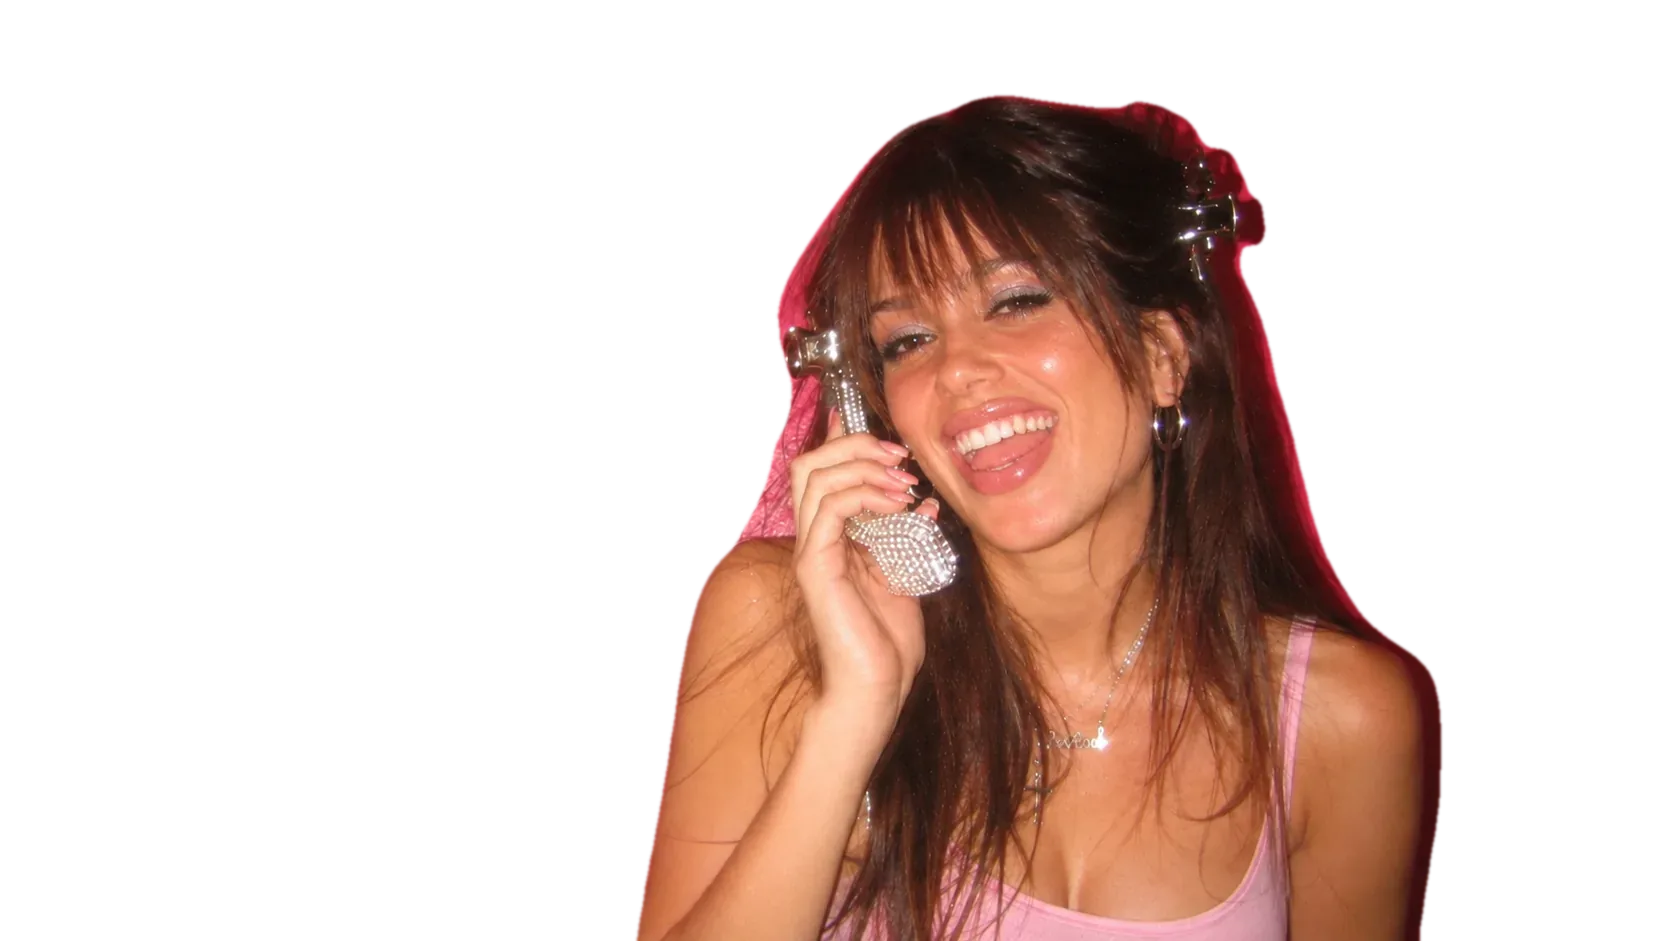
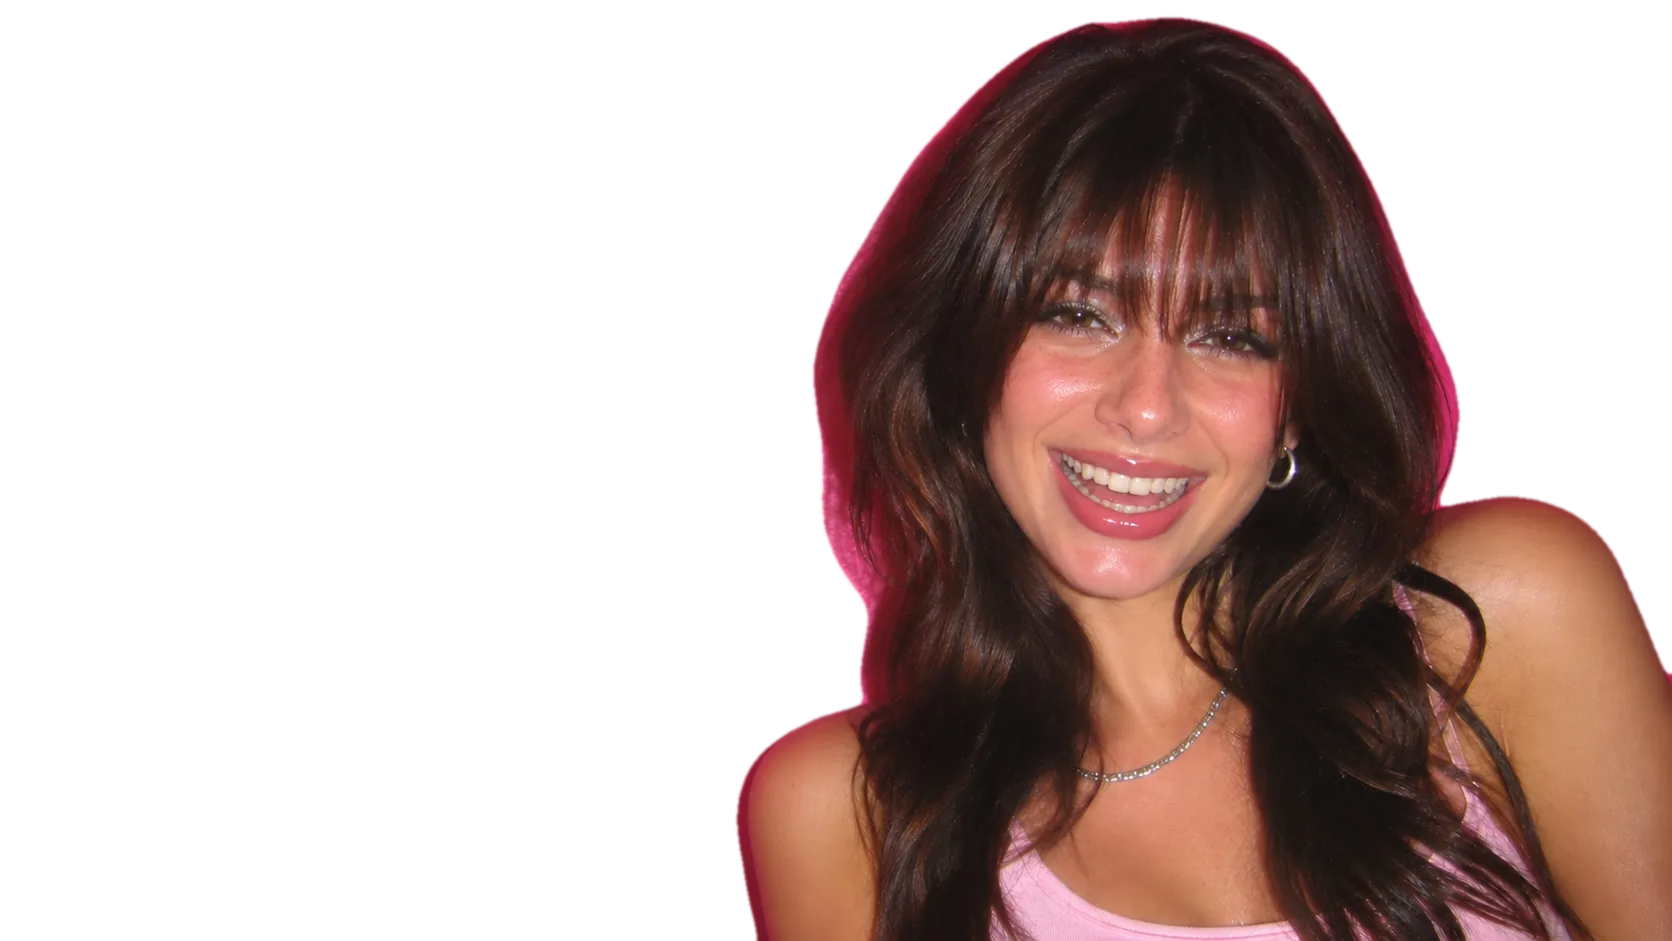
hero: cut it yourself goes wrong, oh no, we fix it
Claude-Session: https://claude.ai/code/session_01WbtRzhgL5VXSv96dk2bG6E

diff --git a/components/Cover.tsx b/components/Cover.tsx
@@ -11,16 +11,16 @@ type Strand = { x: number; y: number; r: number; d: number; dx: number; len: num
  * cut = where the "after" fringe ends (the brows). ends = the long ends that get cut off.
  */
 const FRINGE = {
-  d: { w: 1672, h: 941, pos: [60, 30], x0: 50.3, x1: 66.2, top: 17, cut: 27.5,
-    ends: [[50.3, 33], [52.5, 35.5], [55, 37], [57.5, 38], [60, 37.6], [62.5, 36.2], [64.5, 34], [66.2, 31]] },
-  m: { w: 941, h: 1672, pos: [50, 30], x0: 27, x1: 66, top: 37, cut: 45,
-    ends: [[27, 47.5], [31, 50], [36, 51.5], [42, 52.2], [48, 52], [54, 51], [60, 49], [66, 46]] },
+  d: { w: 1672, h: 941, pos: [60, 30], x0: 62, x1: 76.9, top: 15.9, cut: 26.6,
+    ends: [[62, 31.9], [65, 35.1], [67.9, 37.2], [70.9, 39.3], [73.9, 37.2], [75.7, 35.1], [76.9, 31.9]] },
+  m: { w: 941, h: 1672, pos: [62, 30], x0: 58.4, x1: 85, top: 40.1, cut: 46.1,
+    ends: [[58.4, 49], [63.8, 50.8], [69.1, 52.3], [74.4, 53.2], [79.7, 52], [82.9, 50.8], [85, 49]] },
 };
 
-/** where the light catches: phone, lips, necklace, clip (photo %) */
+/** where the light catches: earring, necklace (photo %) */
 const SHINE = {
-  d: [[51.97, 36.7, 26], [61.5, 45.8, 18], [62.3, 78.4, 30], [73.6, 21.3, 24], [54.3, 60, 16]],
-  m: [[26.7, 49.8, 22], [50.9, 58.6, 16]],
+  d: [[76.9, 46.8, 22], [68.9, 76.3, 26], [70.5, 8, 18]],
+  m: [[82.4, 57.4, 20], [70, 66, 16]],
 };
 
 export default function Cover() {
@@ -28,6 +28,8 @@ export default function Cover() {
   const [pts, setPts] = useState<P[]>([]);
   const [drawing, setDrawing] = useState(false);
   const [piece, setPiece] = useState<string | null>(null);
+  const [fixed, setFixed] = useState(false);
+  const [brave, setBrave] = useState(false);
   const [falling, setFalling] = useState(false);
   const [strands, setStrands] = useState<Strand[]>([]);
   const [cur, setCur] = useState<P | null>(null);
@@ -114,12 +116,13 @@ export default function Cover() {
     else { setPts([]); setNudge(true); setTimeout(() => setNudge(false), 2600); }
   };
   const auto = () => geo && doCut([{ x: geo.x0, y: geo.cut }, { x: geo.x1, y: geo.cut }]);
-  const reset = () => { setPiece(null); setFalling(false); setPts([]); setStrands([]); };
+  const reset = () => { setPiece(null); setFixed(false); setBrave(false); setFalling(false); setPts([]); setStrands([]); };
+  const fix = () => setFixed(true);
 
   const d = pts.map((p, i) => `${i ? 'L' : 'M'}${p.x} ${p.y}`).join(' ');
 
   return (
-    <section className={`cover ${fine && !piece ? 'scissor-cursor' : ''}`} aria-labelledby="cover-title">
+    <section className={`cover ${fine && !piece ? 'scissor-cursor' : ''} ${fixed ? 'is-fixed' : ''} ${piece && !fixed ? 'is-oops' : ''}`} aria-labelledby="cover-title">
       <div
         ref={box}
         className="cover-stage"
@@ -129,21 +132,30 @@ export default function Cover() {
         onPointerCancel={() => { setDrawing(false); setPts([]); }}
         onPointerLeave={() => { setCur(null); if (drawing) up(); }}
       >
-        <picture className="layer after">
+        <picture className="layer">
           <source media="(max-width: 760px)" srcSet={img('cover-after-m')} />
-          <img src={img('cover-after')} alt="a girl laughing on a rhinestone flip phone against a hot pink wall, her fringe freshly cut to just above the brows" />
+          <img src={img('cover-after')} alt={fixed ? 'the same girl, laughing, with a soft fringe cut perfectly at her brows' : ''} />
+        </picture>
+        <picture className={`layer oops ${fixed ? 'swap' : ''}`} aria-hidden={fixed}>
+          <source media="(max-width: 760px)" srcSet={img('cover-oops-m')} />
+          <img src={img('cover-oops')} alt={piece && !fixed ? 'the same girl, horrified, holding kitchen scissors, her fringe chopped crooked and far too short' : ''} />
         </picture>
         <picture className={`layer before ${piece ? 'swap' : ''}`} aria-hidden={!!piece}>
           <source media="(max-width: 760px)" srcSet={img('cover-before-m')} />
-          <img src={img('cover-before')} alt="" />
+          <img src={img('cover-before')} alt="a girl smiling against a hot pink wall, her long fringe grown out over her eyes" />
         </picture>
+
         {/* the masthead sits behind her, like a real cover */}
         <h1 id="cover-title" className="masthead" aria-label="grzywka, hair salon">grzywka</h1>
-        <picture className="layer cut" aria-hidden>
+        <picture className={`layer cut state ${fixed ? 'on' : ''}`} aria-hidden>
           <source media="(max-width: 760px)" srcSet={img('cover-after-m-cut')} />
           <img src={img('cover-after-cut')} alt="" />
         </picture>
-        <picture className={`layer cut before ${piece ? 'swap' : ''}`} aria-hidden>
+        <picture className={`layer cut state ${piece && !fixed ? 'on' : ''}`} aria-hidden>
+          <source media="(max-width: 760px)" srcSet={img('cover-oops-m-cut')} />
+          <img src={img('cover-oops-cut')} alt="" />
+        </picture>
+        <picture className={`layer cut state ${!piece ? 'on' : ''}`} aria-hidden>
           <source media="(max-width: 760px)" srcSet={img('cover-before-m-cut')} />
           <img src={img('cover-before-cut')} alt="" />
         </picture>
@@ -203,14 +215,24 @@ export default function Cover() {
             <a className="display feature" href="#lookbook">the wolf{' '}<br />is back</a>
             <p className="bar white">gloss, clips &amp; 2003 bangs</p>
           </div>
-        ) : (
+        ) : !fixed ? (
           <div className={`lines after-card ${falling ? 'in' : ''}`} role="status">
+            <p className="bar">oh no.</p>
+            <p className="label kicker">{brave ? 'brave. it grows back 1 cm a month.' : 'the fringe · cut at home, at 2am'}</p>
+            <p className="display feature">{brave ? <>or we fix it{' '}<br />in 15 minutes</> : <>maybe let us{' '}<br />do it?</>}</p>
+            <div className="row">
+              <button className="pill hot" onClick={fix}>{brave ? 'ok fine, fix it' : 'yes please'}</button>
+              {!brave && <button className="pill chrome" onClick={() => setBrave(true)}>i&apos;ll live with it</button>}
+            </div>
+          </div>
+        ) : (
+          <div className="lines after-card in fixed" role="status">
             <p className="bar">much better.</p>
-            <p className="label kicker">the fringe · trimmed to the brows</p>
-            <p className="display feature">free trims{' '}<br />between cuts</p>
+            <p className="label kicker">the fringe · cut at grzywka</p>
+            <p className="display feature">fringe trims{' '}<br />are free, forever</p>
             <div className="row">
               <Link className="pill hot" href="/book/?look=fringe">book a fringe trim</Link>
-              <button className="pill chrome" onClick={reset}>grow it back</button>
+              <button className="pill chrome" onClick={reset}>start over</button>
             </div>
           </div>
         )}

diff --git a/app/home.css b/app/home.css
@@ -5,6 +5,13 @@
 .cover .layer, .cover .layer img { position: absolute; inset: 0; width: 100%; height: 100%; object-fit: cover; object-position: 60% 30%; pointer-events: none; }
 .cover .before { transition: opacity .35s ease .05s; }
 .cover .before.swap { opacity: 0; }
+.cover .oops { transition: opacity .7s ease .1s; }
+.cover .oops.swap { opacity: 0; }
+.cover .cut.state { opacity: 0; transition: opacity .45s ease .05s; }
+.cover .cut.state.on { opacity: 1; }
+.cover.is-oops .burst, .cover.is-oops .more { opacity: 0; pointer-events: none; }
+.cover .burst, .cover .more { transition: opacity .3s, transform .3s cubic-bezier(.3, 1.6, .5, 1); }
+.cover .layer:not(.cut) img { object-position: inherit; }
 .cover .piece { will-change: transform; transition: transform 1.3s cubic-bezier(.55, 0, .9, .45), opacity .5s ease-in .8s; }
 .cover .piece.fall { transform: translateY(75vh) rotate(9deg); opacity: 0; }
 .cover .cutline, .cover .strands { position: absolute; inset: 0; width: 100%; height: 100%; pointer-events: none; overflow: visible; }
@@ -37,6 +44,10 @@
 @keyframes snipA { 50% { transform: rotate(12deg); } }
 @keyframes snipB { 50% { transform: rotate(-12deg); } }
 
+/* fixed: a little sparkle pop when the salon fixes it */
+.cover.is-fixed .shine { animation: pop 1.2s ease-out 1, shine 2.8s ease-in-out 1.2s infinite; }
+@keyframes pop { 0% { opacity: 0; transform: translate(-50%, -50%) scale(.2); } 40% { opacity: 1; transform: translate(-50%, -50%) scale(1.8) rotate(45deg); } 100% { opacity: .35; transform: translate(-50%, -50%) scale(.45); } }
+
 /* cover lines */
 .cover-ui { position: absolute; inset: 0; pointer-events: none; z-index: 5; }
 .cover-ui a, .cover-ui button { pointer-events: auto; }
@@ -53,13 +64,13 @@
 .after-card.in { opacity: 1; transform: none; }
 .after-card .row { display: flex; gap: 10px; flex-wrap: wrap; margin-top: 24px; }
 
-.burst { position: absolute; right: 6.9%; top: 32.6%; width: clamp(108px, 10.8vw, 170px); aspect-ratio: 1; display: grid; place-items: center; transform: rotate(-10deg); text-decoration: none; transition: transform .3s cubic-bezier(.3, 1.6, .5, 1); }
+.burst { position: absolute; left: 37%; top: 31%; width: clamp(108px, 10.8vw, 170px); aspect-ratio: 1; display: grid; place-items: center; transform: rotate(-10deg); text-decoration: none; transition: transform .3s cubic-bezier(.3, 1.6, .5, 1); }
 .burst::before, .burst::after { content: ''; position: absolute; inset: 0; clip-path: polygon(50.0% 0.0%, 57.1% 9.6%, 67.1% 3.0%, 70.5% 14.5%, 82.1% 11.7%, 81.4% 23.6%, 93.3% 25.0%, 88.5% 36.0%, 99.2% 41.3%, 91.0% 50.0%, 99.2% 58.7%, 88.5% 64.0%, 93.3% 75.0%, 81.4% 76.4%, 82.1% 88.3%, 70.5% 85.5%, 67.1% 97.0%, 57.1% 90.4%, 50.0% 100.0%, 42.9% 90.4%, 32.9% 97.0%, 29.5% 85.5%, 17.9% 88.3%, 18.6% 76.4%, 6.7% 75.0%, 11.5% 64.0%, 0.8% 58.7%, 9.0% 50.0%, 0.8% 41.3%, 11.5% 36.0%, 6.7% 25.0%, 18.6% 23.6%, 17.9% 11.7%, 29.5% 14.5%, 32.9% 3.0%, 42.9% 9.6%); }
 .burst::before { background: var(--ink); transform: translate(3px, 3px); }
 .burst::after { background: var(--blue); }
 .burst span { position: relative; z-index: 1; font: 900 clamp(16px, 1.6vw, 25px)/.92 var(--head); text-transform: uppercase; text-align: center; color: var(--pink); }
 .burst:hover { transform: rotate(-4deg) scale(1.06); }
-.cover .more { position: absolute; right: 6.9%; top: 52.2%; white-space: nowrap; color: #fff; text-decoration: none; line-height: 1.6; }
+.cover .more { position: absolute; left: 37%; top: calc(31% + clamp(108px, 10.8vw, 170px) + 18px); white-space: nowrap; color: #fff; text-decoration: none; line-height: 1.6; }
 .cover .more:hover { color: var(--blue); }
 .cta-row { position: absolute; left: var(--gutter); bottom: 54px; display: flex; align-items: center; gap: 24px; }
 .cta-row .addr { color: #fff; }
@@ -83,11 +94,12 @@
 }
 @media (max-width: 760px) {
   .cover { min-height: 600px; }
-  .cover .layer, .cover .layer img { object-position: 50% 30%; }
+  .cover .layer, .cover .layer img { object-position: 62% 30%; }
   .cover-ui::before { content: ''; position: absolute; inset: 52% 0 0; background: linear-gradient(180deg, rgba(90, 0, 30, 0), rgba(90, 0, 30, .5)); }
   .masthead { left: 50%; transform: translateX(-50%); top: 62px; font-size: clamp(44px, 17vw, 100px); }
   .cover .issue { top: 26px; font-size: 9px; }
-  .burst { right: 14px; top: 168px; width: 92px; }
+  .burst { left: 14px; top: 160px; width: 92px; }
+  .cut-pill { transform: translate(-100%, -150%); }
   .burst span { font-size: 14px; }
   .cover .more, .cta-row .addr, .barcode, .cover .lines .bar.white { display: none; }
   .cover .lines { top: auto; bottom: 104px; width: calc(100% - 2 * var(--gutter)); }
